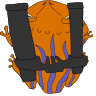
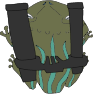
Added Frozen.

diff --git a/src/scenes/game.ts b/src/scenes/game.ts
@@ -3,10 +3,10 @@ import { Wave } from "../objects/snake/wave"
 import { Shop } from "../objects/shop"
 import { Frog } from "../objects/frog/frog"
 import { FrogName } from "../../types/frog"
-import { Bullet } from "../objects/bullet/bullet"
 import { InfoWindow } from "../objects/frog/infoWindow"
 import { Pistol } from "../objects/frog/pistol"
 import { Rapid } from "../objects/frog/rapid"
+import { Frozen } from "../objects/frog/frozen"
 
 export class Game extends Phaser.Scene {
   private field!: Field
@@ -117,6 +117,8 @@ export class Game extends Phaser.Scene {
 
     if (name === "rapid")
       frog = new Rapid(this, tile.getCenterX(), tile.getCenterY(), tY, tX)
+    else if (name === "frozen")
+      frog = new Frozen(this, tile.getCenterX(), tile.getCenterY(), tY, tX)
     else
       frog = new Pistol(this, tile.getCenterX(), tile.getCenterY(), tY, tX)
 
@@ -168,7 +170,7 @@ export class Game extends Phaser.Scene {
       return
 
     bullet.die()
-    snake.damaged(1)
+    snake.damaged(1, bullet.name)
     if (snake.isDead())
       this.shop.addGold(snake.getGold())
   }
@@ -186,9 +188,8 @@ export class Game extends Phaser.Scene {
   private checkFrogAttack() {
     this.wave.snakeGroup.children.iterate((s: any) =>
       this.frogGroup.children.iterate((f: any) => {
-        if (f.canAttack(s.col)) {
+        if (f.canAttack(s.col))
           f.attack(this.bulletGroup)
-        }
       })
     )
   }

diff --git a/src/objects/frog/frog.ts b/src/objects/frog/frog.ts
@@ -6,7 +6,7 @@ import { createFontStyle } from "../../utils"
 export class Frog extends Organism {
   name: FrogName
   readonly jaName: string
-  private atk: number
+  private _atk: number
   private price: number
   private interval: number
   readonly row: number
@@ -20,7 +20,7 @@ export class Frog extends Organism {
     const fd = FrogDatas[name]
     this.jaName = fd.jaName
     this.hp = fd.hp
-    this.atk = fd.atk
+    this._atk = fd.atk
     this.price = fd.price
     this.interval = fd.interval
     this.name = name
@@ -41,8 +41,12 @@ export class Frog extends Organism {
     this.changeGoldTween(`-${this.price}G`, "crimson")
   }
 
+  get atk(): number {
+    return this._atk
+  }
+
   canAttack(snakeCol: number): boolean {
-    return snakeCol === this.col && this.nextAttack <= this.scene.time.now
+    return snakeCol === this.col && this.nextAttack <= this.scene.time.now && this.active
   }
 
   protected calcNextAttack() {
@@ -77,5 +81,9 @@ export class Frog extends Organism {
 
   private calcSellPrice(): number {
     return Math.floor(this.price / 2)
+  }
+
+  attack(bulletGroup: Phaser.GameObjects.Group) {
+    // override plz.
   }
 }

diff --git a/src/objects/bullet/bullet.ts b/src/objects/bullet/bullet.ts
@@ -3,7 +3,7 @@ import { FrogName } from "../../../types/frog"
 
 export class Bullet extends Phaser.Physics.Arcade.Image {
   private speed: number
-  private _isDying = false
+  private _inDieAnims = false
 
   constructor(scene: Phaser.Scene, x: number, y: number, name: FrogName) {
     super(scene, x, y, `${name}Bullet`)
@@ -11,6 +11,7 @@ export class Bullet extends Phaser.Physics.Arcade.Image {
     const bd = BulletDatas[name]
 
     this.speed = bd.speed
+    this.name = name
 
     scene.add.existing(this)
     scene.physics.add.existing(this)
@@ -23,14 +24,14 @@ export class Bullet extends Phaser.Physics.Arcade.Image {
   }
 
   get isDying(): boolean {
-    return this._isDying
+    return this._inDieAnims
   }
 
   private dieAnims() {
-    if (this._isDying)
+    if (this._inDieAnims)
       return
 
-    this._isDying = true
+    this._inDieAnims = true
     this.setVelocityY(0)
 
     this.scene.add.tween({

diff --git a/src/objects/frog/rapid.ts b/src/objects/frog/rapid.ts
@@ -6,22 +6,15 @@ export class Rapid extends Frog {
     super(scene, x, y, "rapid", row, col)
   }
 
-  private createBullet() {
-    return new Bullet(this.scene, this.x, this.y, "pistol")
-  }
-
   attack(bulletGroup: Phaser.GameObjects.Group) {
     const shotCount = 3,
       interval = 200
 
-    let delay = 0
-
     for (let i = 0; i < shotCount; i++) {
-      this.scene.time.delayedCall(delay, () => {
-        bulletGroup.add(this.createBullet())
-      })
-
-      delay += interval
+      const delay = interval * i
+      this.scene.time.delayedCall(delay, () =>
+        bulletGroup.add(new Bullet(this.scene, this.x, this.y, "pistol"))
+      )
     }
 
     this.calcNextAttack()

diff --git a/src/objects/snake/snake.ts b/src/objects/snake/snake.ts
@@ -37,7 +37,7 @@ export class Snake extends Organism {
     if (this.isAttack)
       newVy = 0
     else if (this.isSlow)
-      newVy = this.speed / 2
+      newVy = this.speed / 3
 
     this.setVelocityY(newVy)
   }
@@ -59,6 +59,22 @@ export class Snake extends Organism {
       scale: 1.2,
       yoyo: true
     })
+  }
+
+  damaged(atk: number, name: string) {
+    super.damaged(atk, name)
+
+    if (name === "frozen")
+      this.toSlow()
+  }
+
+  private toSlow() {
+    if (this.isSlow)
+      return
+
+    this.isSlow = true
+
+    this.scene.time.delayedCall(3000, () => this.isSlow = false)
   }
 
   getGold(): number {

diff --git a/src/scenes/boot.ts b/src/scenes/boot.ts
@@ -10,7 +10,9 @@ export class Boot extends Phaser.Scene {
       .image("x", "assets/imgs/x.png")
       .image("pistol", "assets/imgs/frog/pistol.png")
       .image("rapid", "assets/imgs/frog/rapid.png")
+      .image("frozen", "assets/imgs/frog/frozen.png")
       .image("pistolBullet", "assets/imgs/frog/bullet/pistol.png")
+      .image("frozenBullet", "assets/imgs/frog/bullet/frozen.png")
       .image("normal", "assets/imgs/snake/normal.png")
       .spritesheet("tiles", "assets/imgs/tiles.png", { frameWidth: TILE_SIZE, frameHeight: TILE_SIZE })
   }

diff --git a/src/objects/frog/frozen.ts b/src/objects/frog/frozen.ts
@@ -1,0 +1,13 @@
+import { Frog } from "./frog"
+import { Bullet } from "../bullet/bullet"
+
+export class Frozen extends Frog {
+  constructor(scene: Phaser.Scene, x: number, y: number, row: number, col: number) {
+    super(scene, x, y, "frozen", row, col)
+  }
+
+  attack(bulletGroup: Phaser.GameObjects.Group) {
+    bulletGroup.add(new Bullet(this.scene, this.x, this.y, "frozen"))
+    this.calcNextAttack()
+  }
+}

diff --git a/types/frog.d.ts b/types/frog.d.ts
@@ -1,4 +1,4 @@
-export type FrogName = "pistol" | "rapid"
+export type FrogName = "pistol" | "rapid" | "frozen"
 export type Frogs = {
   [key: string]: {
     container: Phaser.GameObjects.Container,

diff --git a/src/objects/organism.ts b/src/objects/organism.ts
@@ -16,7 +16,7 @@ export class Organism extends Phaser.Physics.Arcade.Image {
   }
 
 
-  damaged(atk: number) {
+  damaged(atk: number, name: string) {
     this.hp -= atk
 
     if (this.isDead())

diff --git a/src/objects/bullet/frozenBullet.ts b/src/objects/bullet/frozenBullet.ts
@@ -1,0 +1,5 @@
+import { Bullet } from "./bullet";
+
+export class FrozenBullet extends Bullet {
+
+}
